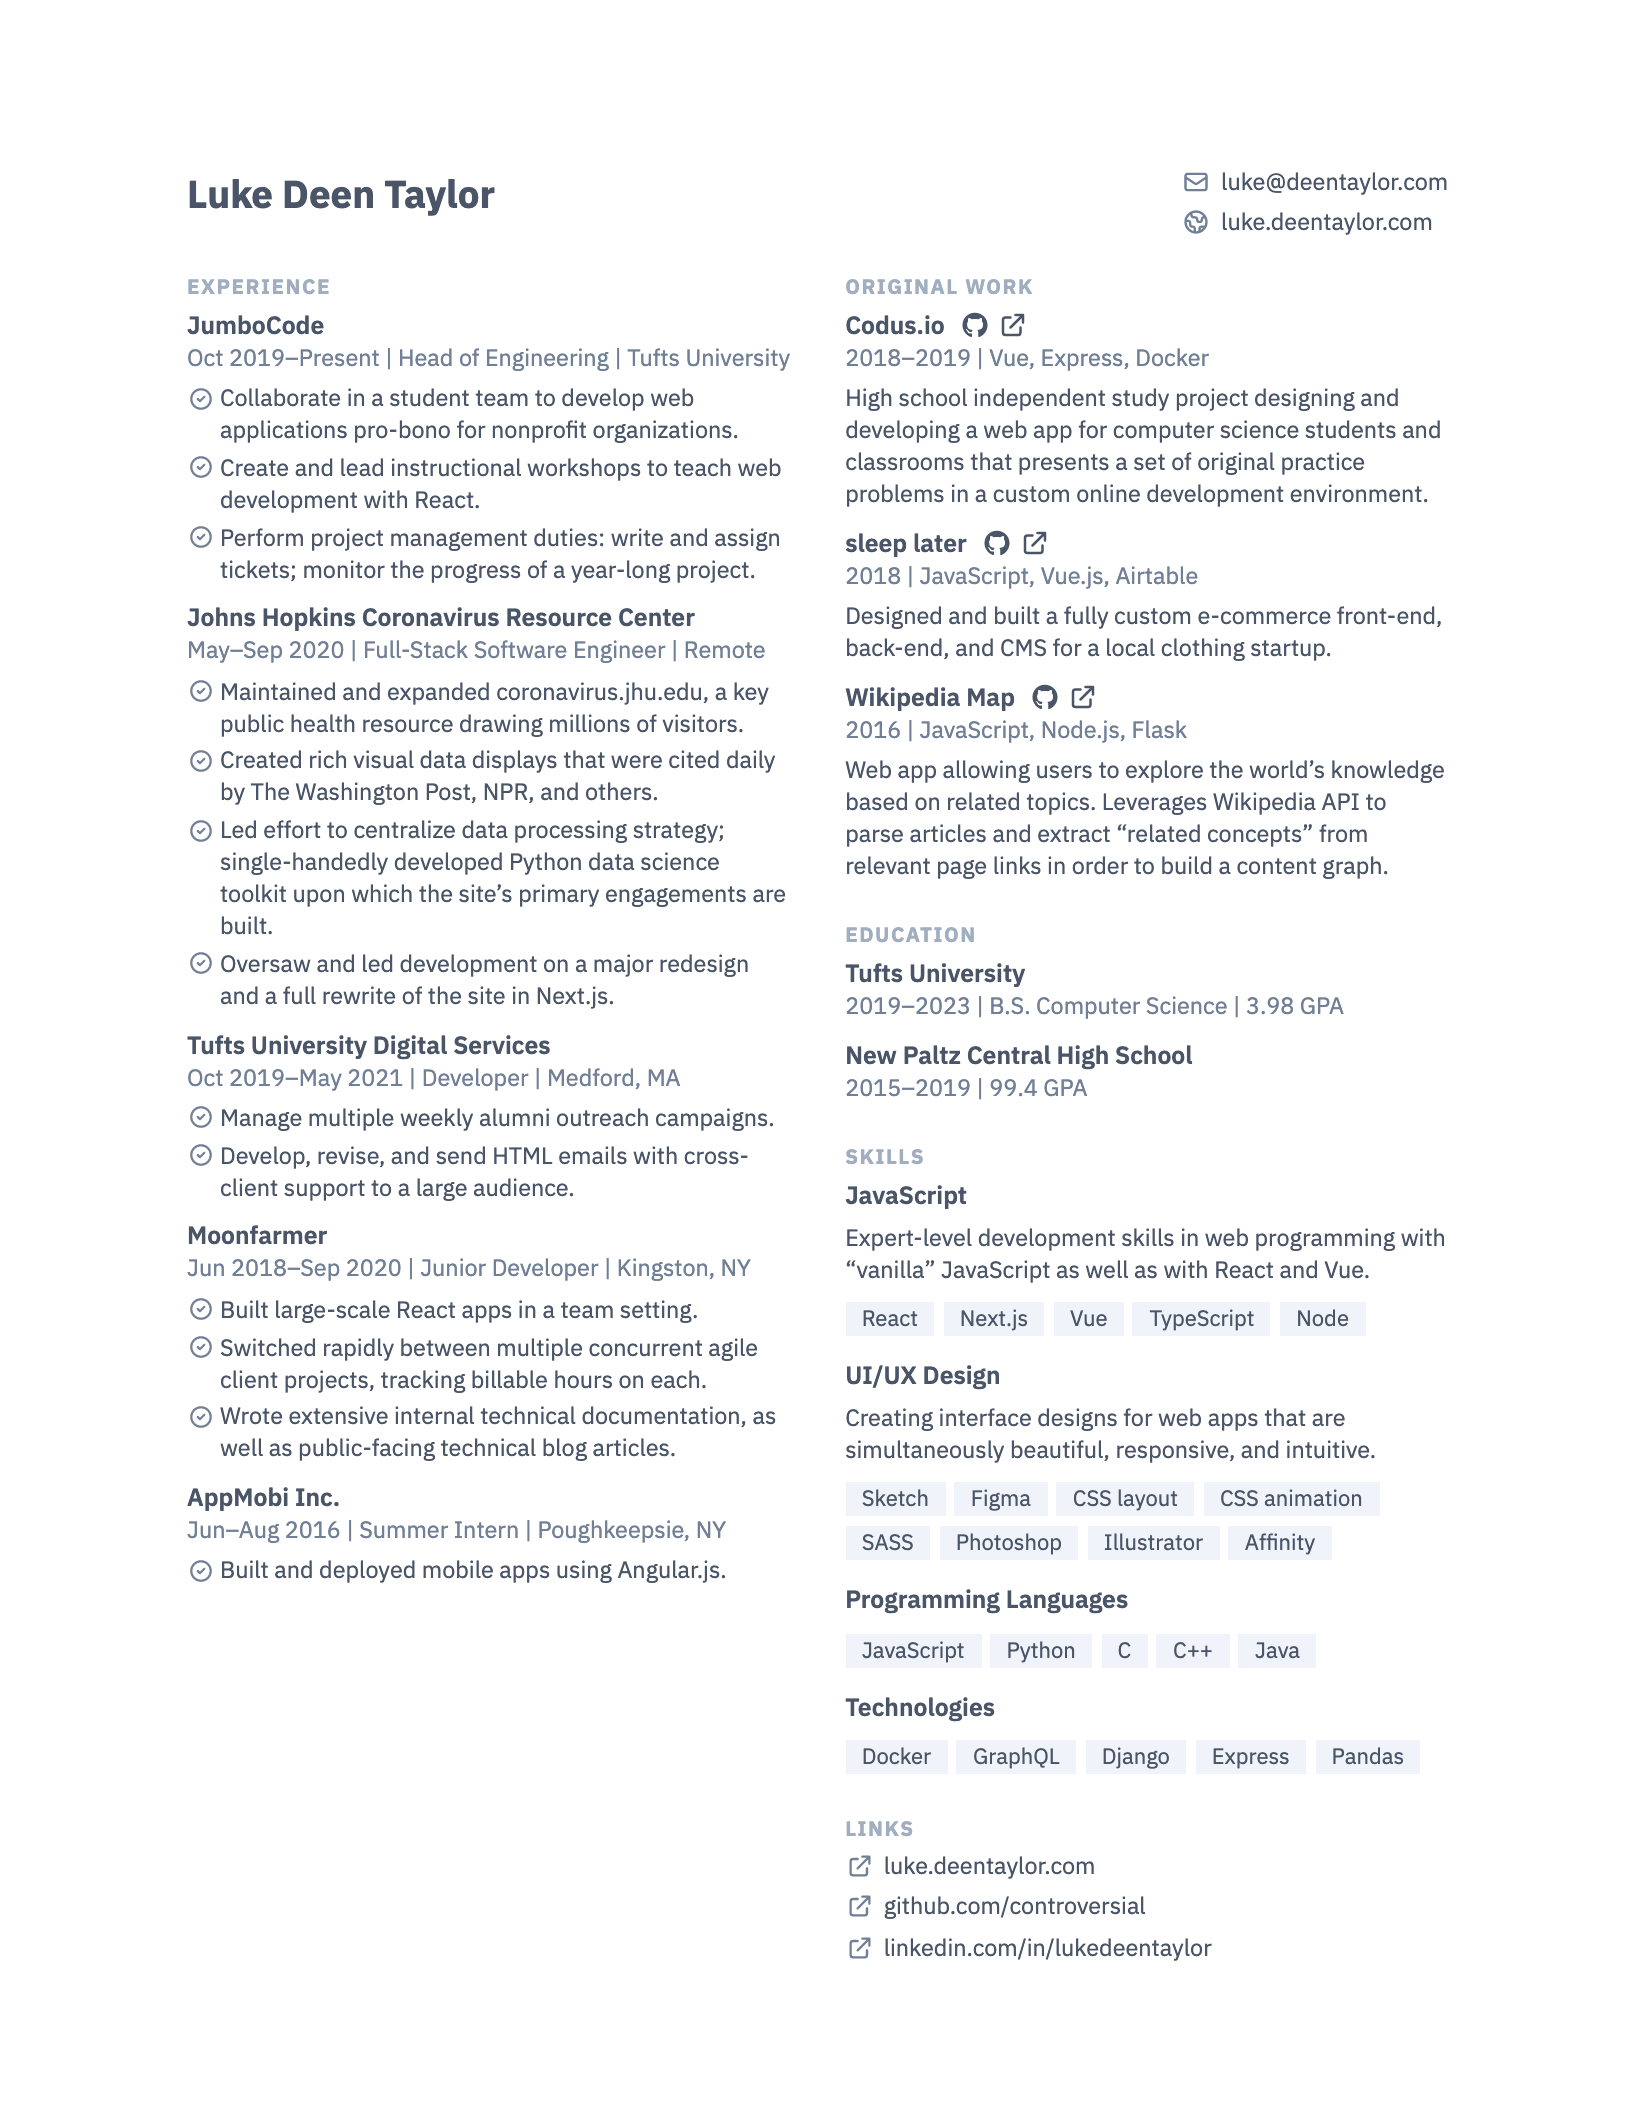
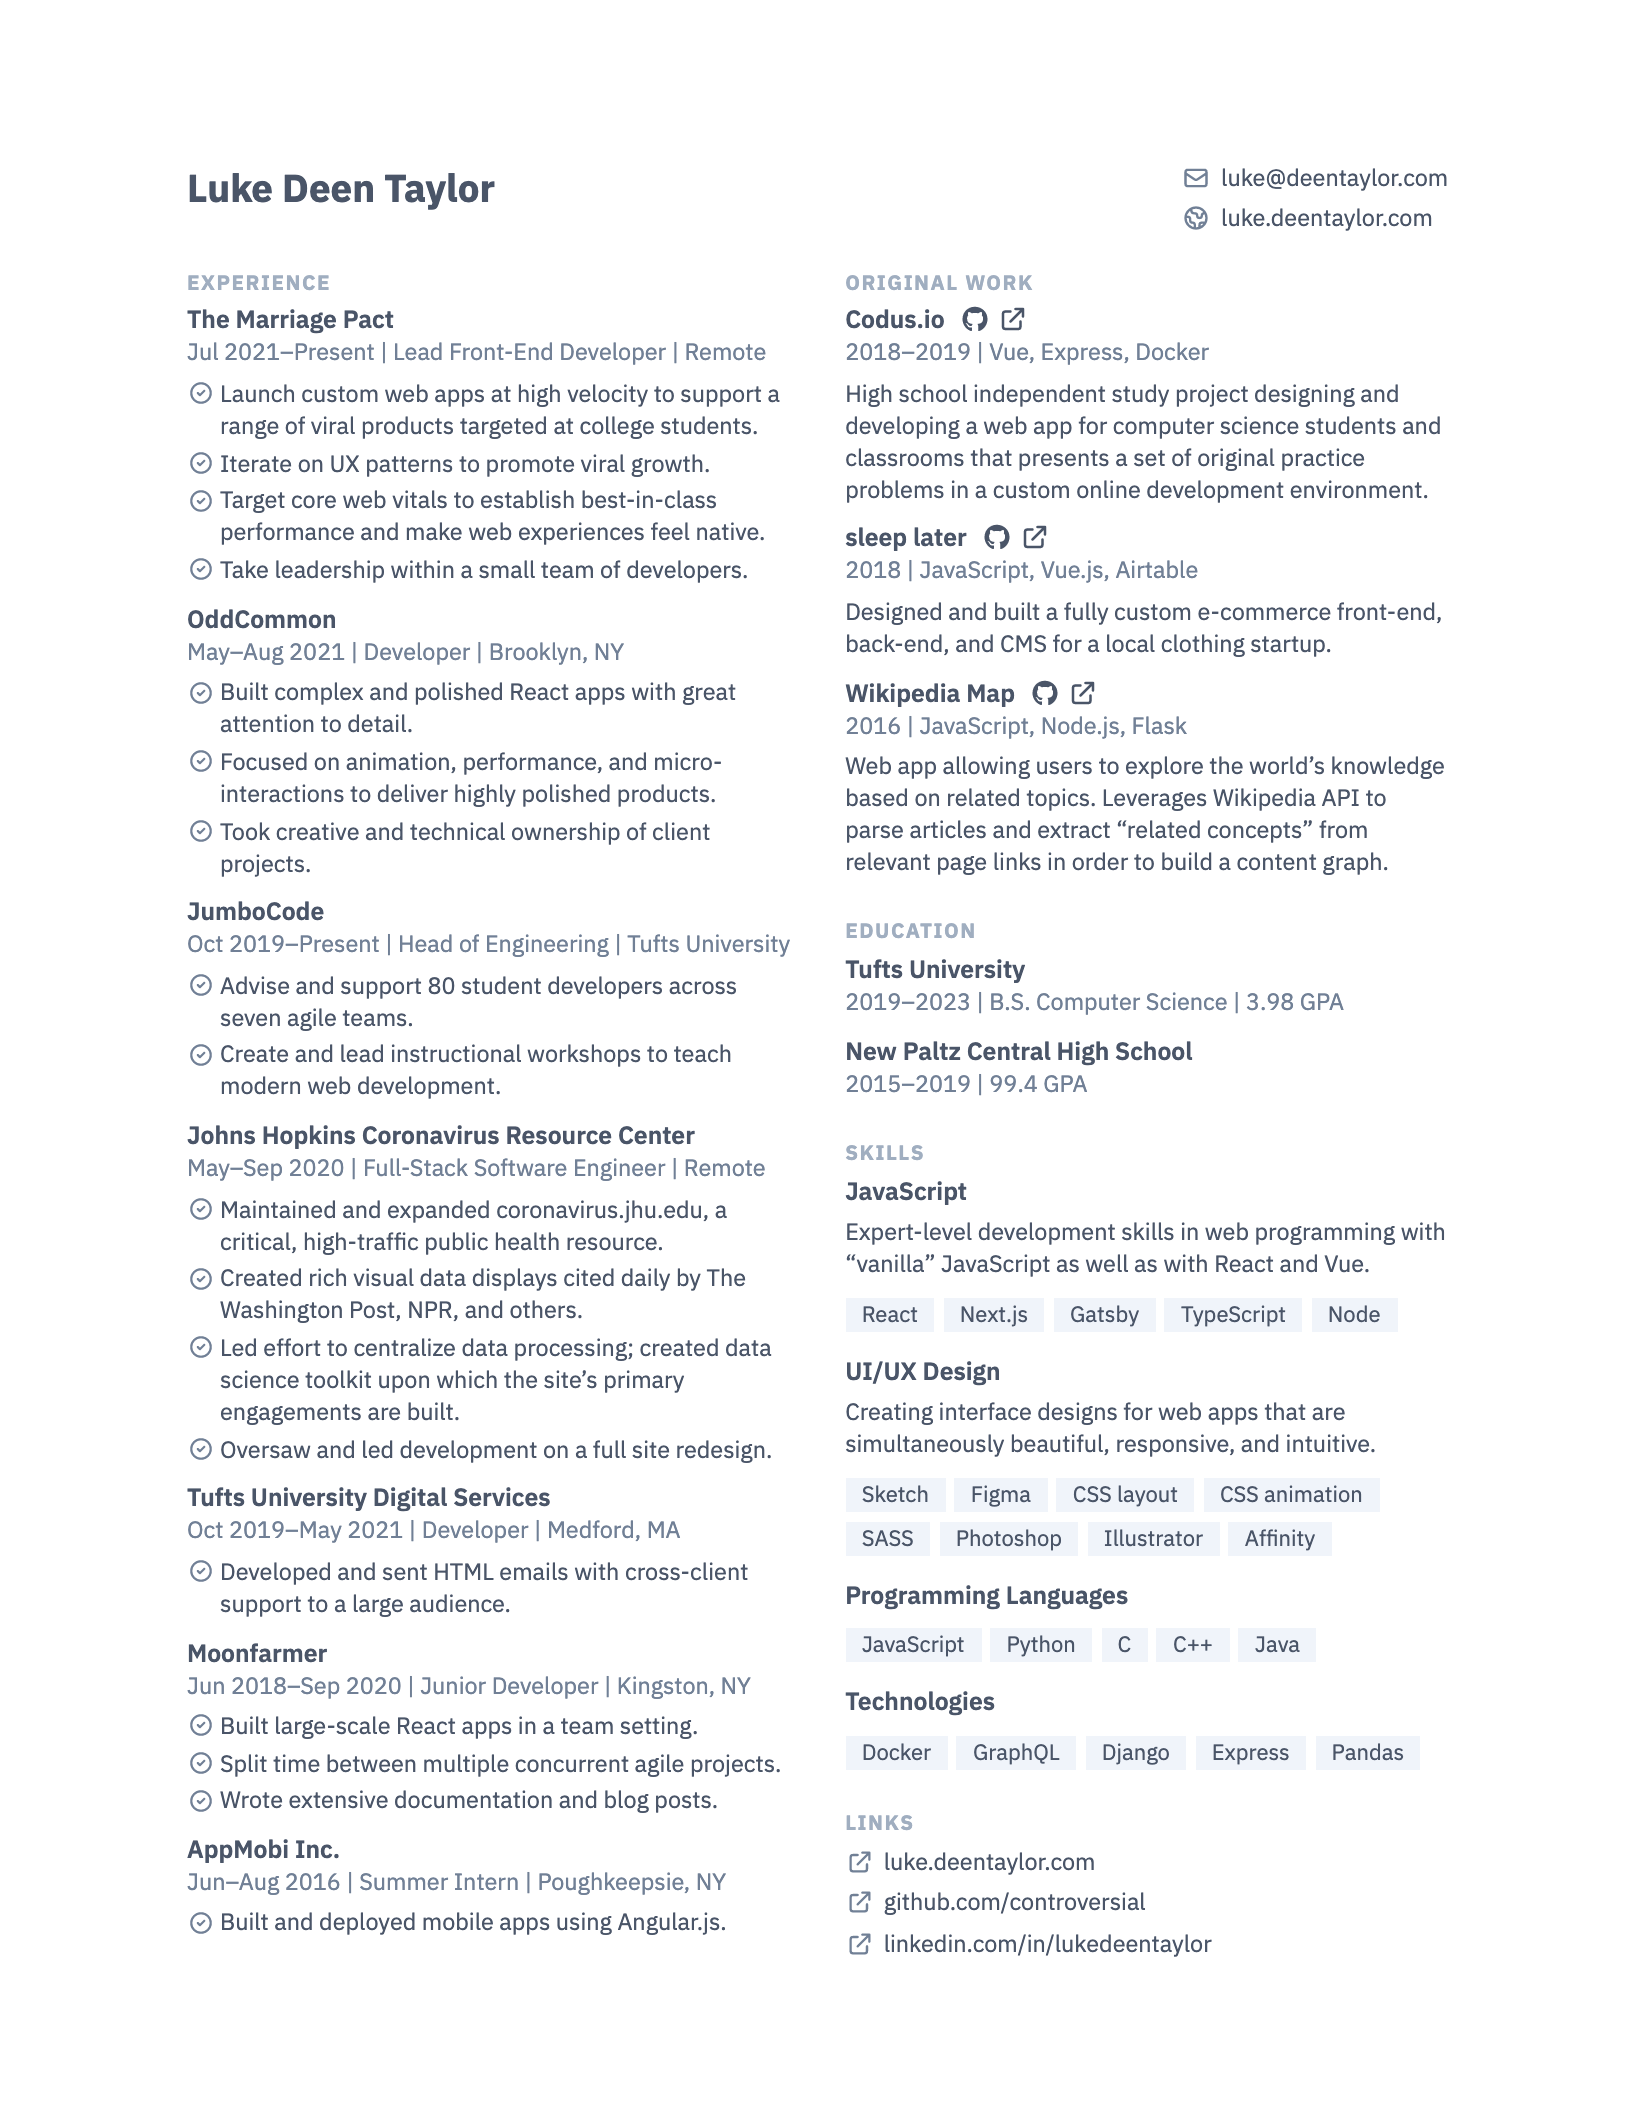
Draft updates to Experience

diff --git a/src/content.js b/src/content.js
@@ -16,14 +16,37 @@ export default {
 
   experience: [
     {
+      employer: 'The Marriage Pact',
+      position: 'Lead Front-End Developer',
+      location: 'Remote',
+      startDate: new Date('2021-07-12'),
+      tasks: [
+        'Launch custom web apps at high velocity to support a range of viral products targeted at college students.',
+        'Iterate on UX patterns to promote viral growth.',
+        'Target core web vitals to establish best-in-class performance and make web experiences feel native.',
+        'Take leadership within a small team of developers.',
+      ],
+    },
+    {
+      employer: 'OddCommon',
+      position: 'Developer',
+      location: 'Brooklyn, NY',
+      startDate: new Date('2021-05-17'),
+      endDate: new Date('2021-08-31'),
+      tasks: [
+        'Built complex and polished React apps with great attention to detail.',
+        'Focused on animation, performance, and micro-interactions to deliver highly polished products.',
+        'Took creative and technical ownership of client projects.',
+      ],
+    },
+    {
       employer: 'JumboCode',
       position: 'Head of Engineering',
       location: 'Tufts University',
       startDate: new Date('2019-10-01'),
       tasks: [
-        'Collaborate in a student team to develop web applications pro-bono for nonprofit organizations.',
-        'Create and lead instructional workshops to teach web development with React.',
-        'Perform project management duties: write and assign tickets; monitor the progress of a year-long project.',
+        'Advise and support 80 student developers across seven agile teams.',
+        'Create and lead instructional workshops to teach modern web development.',
       ],
     },
     {
@@ -33,10 +56,10 @@ export default {
       startDate: new Date('2020-05-06'),
       endDate: new Date('2020-09-04'),
       tasks: [
-        'Maintained and expanded <a href="https://coronavirus.jhu.edu" target="_blank" rel="noopener noreferrer">coronavirus.jhu.edu</a>, a key public health resource drawing millions of visitors.',
-        'Created rich visual data displays that were cited daily by The Washington Post, NPR, and others.',
-        'Led effort to centralize data processing strategy; single-handedly developed Python data science toolkit upon which the site’s primary engagements are built.',
-        'Oversaw and led development on a major redesign and a full rewrite of the site in Next.js.',
+        'Maintained and expanded <a href="https://coronavirus.jhu.edu" target="_blank" rel="noopener noreferrer">coronavirus.jhu.edu</a>, a critical, high-traffic public health resource.',
+        'Created rich visual data displays cited daily by The Washington Post, NPR, and others.',
+        'Led effort to centralize data processing; created data science toolkit upon which the site’s primary engagements are built.',
+        'Oversaw and led development on a full site redesign.',
       ],
     },
     {
@@ -46,8 +69,7 @@ export default {
       startDate: new Date('2019-10-07'),
       endDate: new Date('2021-05-01'),
       tasks: [
-        'Manage multiple weekly alumni outreach campaigns.',
-        'Develop, revise, and send HTML emails with cross-client support to a large audience.',
+        'Developed and sent HTML emails with cross-client support to a large audience.',
       ],
     },
     {
@@ -58,8 +80,8 @@ export default {
       endDate: new Date('2020-09-01'),
       tasks: [
         'Built large-scale React apps in a team setting.',
-        'Switched rapidly between multiple concurrent agile client projects, tracking billable hours on each.',
-        'Wrote extensive internal technical documentation, as well as public-facing technical blog articles.',
+        'Split time between multiple concurrent agile projects.',
+        'Wrote extensive documentation and blog posts.',
       ],
     },
     // {
@@ -155,7 +177,7 @@ export default {
         Expert-level development skills in web programming with “vanilla” JavaScript as well as with
         React and Vue.
       `,
-      tags: ['React', 'Next.js', 'Vue', 'TypeScript', 'Node'],
+      tags: ['React', 'Next.js', 'Gatsby', 'TypeScript', 'Node'],
     },
     {
       title: 'UI/UX Design',
